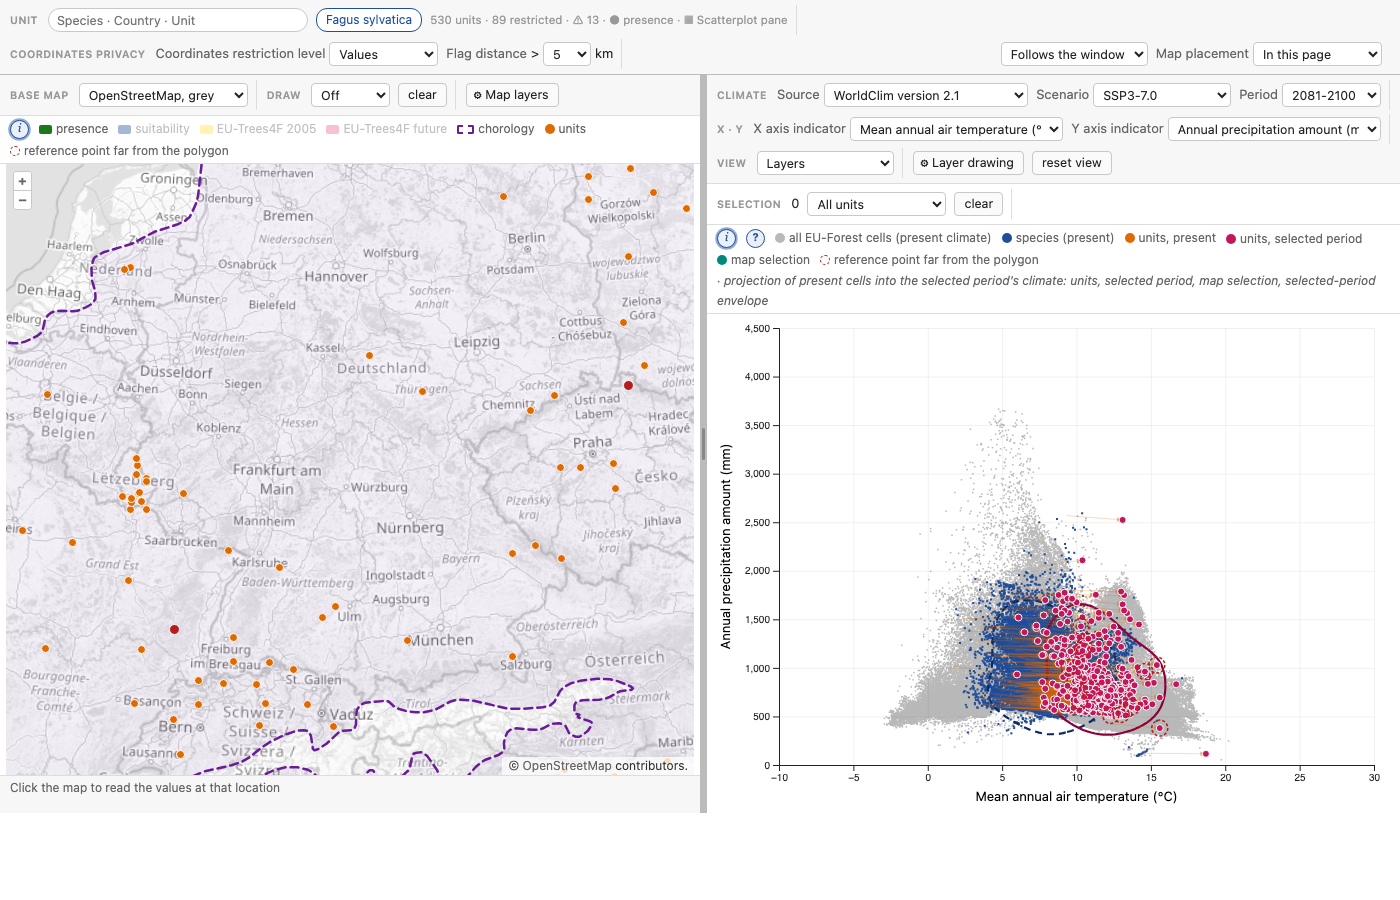
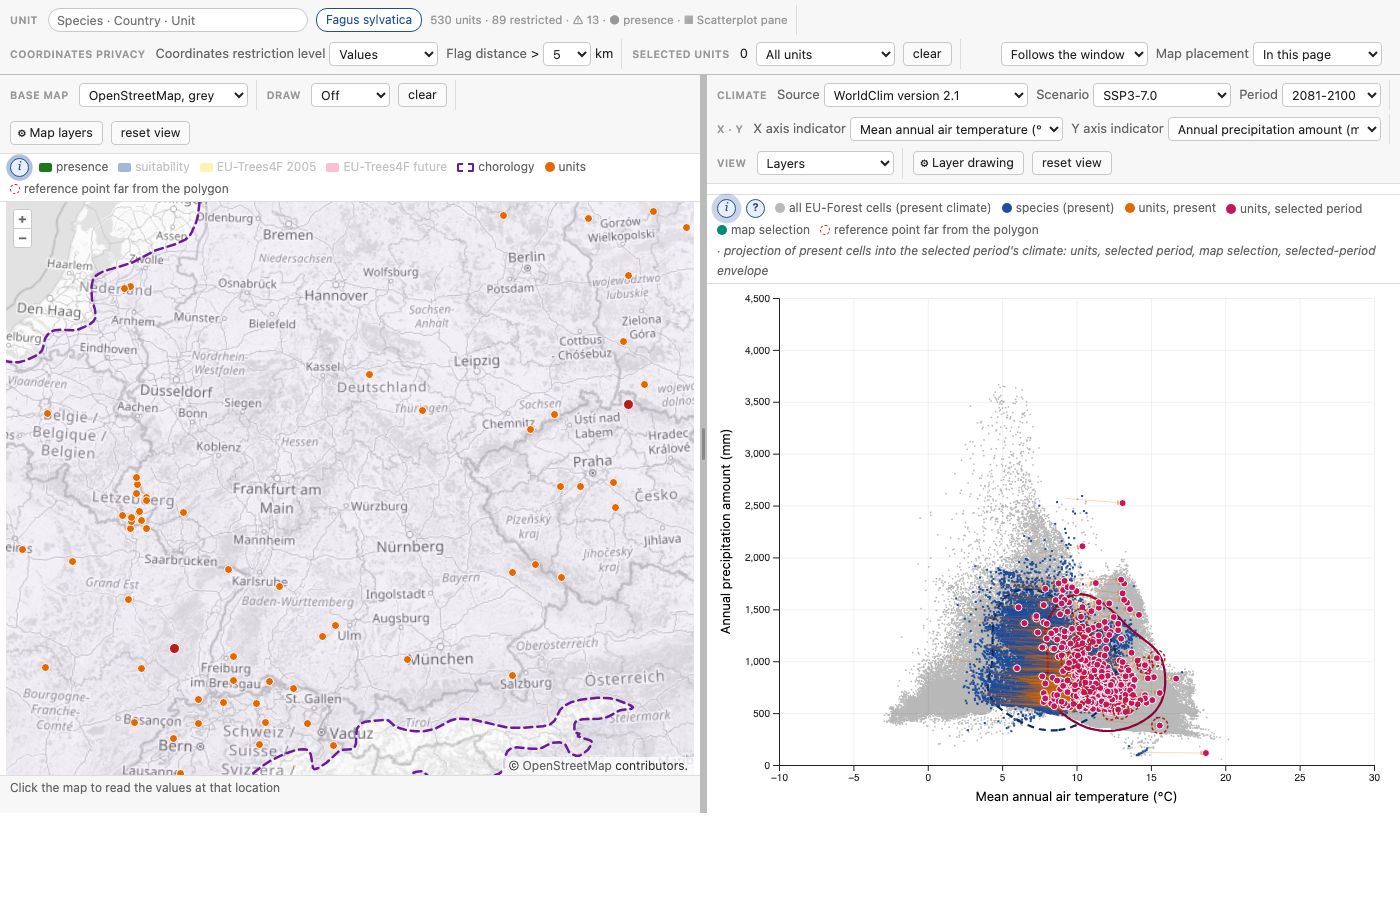
feat(examples): the Selection group is shared — count, units-shown mode and clear in the host's bar as "Selected units"; the mode (all / only the selection / hide the selection) acts on the map too
Term follow-up noted: ui_layout_scatterplot_units_mode and _selection have page-wide scope now and belong under ui_layout_units_*.

diff --git a/examples/linked.html b/examples/linked.html
@@ -36,6 +36,11 @@
     <label><span data-term="gcu_loc_coordinates-restriction_level"></span> <select data-key="gcu_loc_coordinates-restriction_level"></select></label>
     <label><span data-term="gcu_loc_climate_flag"></span> &gt; <select data-key="gcu_loc_climate_flag"><option>1</option><option>2</option><option>5</option><option>10</option><option>20</option></select> km</label>
   </span>
+  <!-- the selected units (option-click on either pane): the count, which units both panes draw, clear -->
+  <span class="group"><span class="cap" data-term="ui_layout_scatterplot_units_selection"></span><span id="selCount">0</span>
+    <select data-key="ui_layout_scatterplot_units_mode"></select>
+    <button id="selClear" data-term="ui_layout_label_clear"></button>
+  </span>
   <span class="group" id="clearGroup" style="display:none"><span class="cap" data-term="ui_layout_scatterplot_label_map-selection"></span><button id="clear" data-term="ui_layout_label_clear"></button></span>
   <span class="group right"><select data-key="ui_layout_mode"></select>
     <label><span data-term="ui_layout_map_placement"></span> <select data-key="ui_layout_map_placement"></select></label>
@@ -51,10 +56,10 @@
 <script src="service.js"></script>
 <script>
 const $ = (id) => document.getElementById(id), $K = (k) => document.querySelector(`[data-key="${k}"]`)
-const K = { species: 'species', country: 'gcu_id_country', unit: 'gcu_id_number', level: 'gcu_loc_coordinates-restriction_level', flag: 'gcu_loc_climate_flag', mode: 'ui_layout_mode', placement: 'ui_layout_map_placement', selection: 'ui_layout_scatterplot_units_selection', sel: 'ui_layout_map_selection' }
-const SHARED = [K.species, K.country, K.unit, K.level, K.flag]   // what the panes receive
+const K = { species: 'species', country: 'gcu_id_country', unit: 'gcu_id_number', level: 'gcu_loc_coordinates-restriction_level', flag: 'gcu_loc_climate_flag', mode: 'ui_layout_mode', placement: 'ui_layout_map_placement', selection: 'ui_layout_scatterplot_units_selection', unitsMode: 'ui_layout_scatterplot_units_mode', sel: 'ui_layout_map_selection' }
+const SHARED = [K.species, K.country, K.unit, K.level, K.flag, K.selection, K.unitsMode]   // what the panes receive
 const E = (root, ...lids) => lids.map((l) => `${root}_${l}`)
-const OPT = { [K.level]: E('gcu_loc_coordinates-restriction', 'public', 'value', 'manage'), [K.mode]: E('ui_layout_mode', 'auto', 'side', 'stack'), [K.placement]: E('ui_layout_map_placement', 'page', 'tab', 'window') }
+const OPT = { [K.level]: E('gcu_loc_coordinates-restriction', 'public', 'value', 'manage'), [K.mode]: E('ui_layout_mode', 'auto', 'side', 'stack'), [K.placement]: E('ui_layout_map_placement', 'page', 'tab', 'window'), [K.unitsMode]: E('ui_layout_scatterplot_units', 'all', 'only', 'hide') }
 const DIST = 'gcu_loc_climate_distance'
 const last = Dict.last
 let state = {}, cat, ix = [], popup = null
@@ -100,6 +105,7 @@ const read = (el) => el.dataset.key === K.flag ? Number(el.value) : (el.value ==
 const ON = {
   [K.flag]: () => { refill(); send() }, [K.level]: async () => { ix = await Svc.unitsIndex(state[K.level]); refill(); send() },
   [K.mode]: () => { $('panes').className = last(state[K.mode]); stackedFlag() }, [K.placement]: place,
+  [K.unitsMode]: () => send([K.unitsMode]),
 }
 const panes = $('panes'), stacked = () => panes.classList.contains('stack') || (panes.classList.contains('auto') && matchMedia('(max-aspect-ratio: 5/4)').matches)
 function stackedFlag() { panes.classList.toggle('stacked', stacked()) }
@@ -120,7 +126,7 @@ const q = new URLSearchParams(location.search)
 const paneUrl = (page, extra = '') => `${page}?embedded=1${['lang', 'dict', 'api'].filter((k) => q.get(k)).map((k) => `&${k}=${encodeURIComponent(q.get(k))}`).join('')}${extra}`
 Promise.all([Svc.catalogue(), Dict.defaults()]).then(async ([c, defaults]) => {
   cat = c
-  state = { ...defaults, [K.species]: 'Fagus sylvatica', [K.level]: 'gcu_loc_coordinates-restriction_value' }   // the scatterplot default: restricted units' values are shown
+  state = { ...defaults, [K.species]: 'Fagus sylvatica', [K.level]: 'gcu_loc_coordinates-restriction_value', [K.selection]: [] }   // the scatterplot default: restricted units' values are shown
   for (const k of Object.values(K)) if (q.has(k)) state[k] = q.get(k)
   ix = await Svc.unitsIndex(state[K.level])
   await Dict.load([...Object.values(K), ...Object.values(OPT).flat(), ...c.countries.map((x) => x[K.country]), 'ui_layout', 'ui_layout_scatterplot', 'ui_layout_scatterplot_label_map-selection', 'gcu_loc_coordinates-restriction', 'ui_layout_label_species', 'ui_layout_label_country', 'ui_layout_label_unit', 'ui_layout_label_clear', 'ui_layout_label_restricted', 'ui_layout_label_flagged', 'ui_layout_map_label_presence'])
@@ -131,6 +137,7 @@ Promise.all([Svc.catalogue(), Dict.defaults()]).then(async ([c, defaults]) => {
     if (OPT[k]) Dict.options(el, OPT[k], state[k]); else { if (state[k] != null) el.value = state[k]; Dict.hover(el) }
     el.addEventListener('change', () => { state[k] = read(el); (ON[k] ?? send)() })
   }
+  $('selClear').addEventListener('click', () => { state[K.selection] = []; $('selCount').textContent = 0; send([K.selection]) })
   refill(); stackedFlag(); matchMedia('(max-aspect-ratio: 5/4)').addEventListener('change', stackedFlag)
   // the search box: type a species, a country or a unit number; Enter takes the highlighted suggestion, Escape closes
   const q$ = $('q'); q$.placeholder = `${Dict.title('ui_layout_label_species')} · ${Dict.title('ui_layout_label_country')} · ${Dict.title('ui_layout_label_unit')}`; q$.title = Dict.def('ui_layout_label_unit')
@@ -168,7 +175,7 @@ window.addEventListener('message', (e) => {
     $('clearGroup').style.display = d[K.sel] ? '' : 'none'
   }
   // the units selected by option-click, on either pane, are drawn on both; a unit clicked on the map is chosen as in the search box
-  if (K.selection in d) (e.source === mapW() ? scatterW() : mapW()).postMessage({ type: 'state', [K.selection]: d[K.selection] }, '*')
+  if (K.selection in d) { state[K.selection] = d[K.selection] ?? []; $('selCount').textContent = state[K.selection].length; (e.source === mapW() ? scatterW() : mapW()).postMessage({ type: 'state', [K.selection]: state[K.selection] }, '*') }
   if (K.unit in d && (e.source === mapW() || e.source === scatterW()) && (d[K.unit] ?? null) !== (state[K.unit] ?? null)) { state[K.unit] = d[K.unit] ?? null; refill(); send([K.unit]) }
   if (K.species in d && e.source === mapW() && d[K.species] !== state[K.species]) { state[K.species] = d[K.species]; state[K.country] = null; state[K.unit] = null; refill(); scatterW().postMessage({ type: 'state', [K.species]: state[K.species], [K.country]: null, [K.unit]: null }, '*') }
 })

diff --git a/examples/map-openlayers.html b/examples/map-openlayers.html
@@ -93,7 +93,7 @@ const flagStyle = new ol.style.Style({ stroke: new ol.style.Stroke({ color: '#b7
 const hidden = new ol.style.Style({})
 
 // ---- the pane state, keyed by dictionary gids (ui_layout_state)
-const K = { species: 'species', country: 'gcu_id_country', unit: 'gcu_id_number', flag: 'gcu_loc_climate_flag', level: 'gcu_loc_coordinates-restriction_level', base: 'ui_layout_map_layer_base', draw: 'ui_layout_map_draw-mode', sel: 'ui_layout_map_selection', period: 'env_climate_period', scenario: 'env_climate_scenario', variant: 'ui_layout_scatterplot_view_classes_variant', selection: 'ui_layout_scatterplot_units_selection' }
+const K = { species: 'species', country: 'gcu_id_country', unit: 'gcu_id_number', flag: 'gcu_loc_climate_flag', level: 'gcu_loc_coordinates-restriction_level', base: 'ui_layout_map_layer_base', draw: 'ui_layout_map_draw-mode', sel: 'ui_layout_map_selection', period: 'env_climate_period', scenario: 'env_climate_scenario', variant: 'ui_layout_scatterplot_view_classes_variant', selection: 'ui_layout_scatterplot_units_selection', unitsMode: 'ui_layout_scatterplot_units_mode' }
 const LAYER = { rpp: 'ui_layout_map_layer_rpp', mhs: 'ui_layout_map_layer_mhs', t4cur: 'ui_layout_map_layer_t4-current', t4fut: 'ui_layout_map_layer_t4-future', choro: 'ui_layout_map_layer_chorology', units: 'ui_layout_map_layer_units' }
 const E = (root, ...lids) => lids.map((l) => `${root}_${l}`)
 const OPT = { [K.base]: E('ui_layout_map_layer_base', 'none', 'boundary', 'hillshade', 'gray', 'osm', 'topo'), [K.draw]: E('ui_layout_map_draw-mode', 'none', 'point', 'box', 'polygon'), [K.variant]: E('ui_layout_scatterplot_view_classes_variant', 'potential', 'dispersal') }
@@ -166,7 +166,8 @@ function refill() {
   for (const el of [cs, ss, us]) Dict.hover(el)
   const nf = sel.filter(flag).length; $('searchInfo').textContent = `${sel.length} ${T(LBL.unit).toLowerCase()}s · ${sel.filter((u) => u['gcu_loc_coordinates-restriction']).length} ${T(LBL.restricted)}${nf ? ` · ⚠ ${nf}` : ''} · ● ${T(LBL.presence)}`; $('searchInfo').title = `⚠ = ${T(LBL.flagged)} (> ${state[K.flag]} km)`
   const ids = new Set(sel.map((u) => u.gcu_id_number))
-  for (const f of units.getSource().getFeatures()) f.set('hidden', !ids.has(f.get('gcu_id_number')), true)   // the points outside the filter are not drawn
+  const mode = last(state[K.unitsMode] ?? '')   // all / only the selection / hide the selection, shared with the scatterplot
+  for (const f of units.getSource().getFeatures()) { const id = f.get('gcu_id_number'); f.set('hidden', !ids.has(id) || (mode === 'only' && !selected(id)) || (mode === 'hide' && selected(id)), true) }   // the points outside the filter are not drawn
   units.changed()
   run.sel = sel; updateInfo(sel)
 }
@@ -238,7 +239,7 @@ map.on('singleclick', (e) => {
   if (f && e.originalEvent.altKey) {   // toggle in the shared selection
     const id = f.get('gcu_id_number'), sel = state[K.selection] ?? []
     state[K.selection] = selected(id) ? sel.filter((x) => x !== id) : [...sel, id]
-    units.changed(); picked.changed(); post({ [K.selection]: state[K.selection] }); updateInfo(run.sel ?? []); $('info').innerHTML = `${T(LBL.selection)}: ${state[K.selection].length} · ${unitHtml(f).replace(/<br>/g, ' · ')}`
+    refill(); post({ [K.selection]: state[K.selection] }); $('info').innerHTML = `${T(LBL.selection)}: ${state[K.selection].length} · ${unitHtml(f).replace(/<br>/g, ' · ')}`
     return
   }
   if (f) {   // choose the unit: its polygon here, its reference point in the scatterplot (through the host)

diff --git a/examples/scatter-d3-canvas.html b/examples/scatter-d3-canvas.html
@@ -68,7 +68,7 @@
     <label><span data-term="gcu_loc_coordinates-restriction_level"></span> <select data-key="gcu_loc_coordinates-restriction_level"></select></label>
     <label><span data-term="gcu_loc_climate_flag"></span> &gt; <select data-key="gcu_loc_climate_flag"><option>1</option><option>2</option><option>5</option><option>10</option><option>20</option></select> km</label>
   </span>
-  <span class="group"><span class="cap" data-term="ui_layout_scatterplot_label_selection"></span>
+  <span class="group host"><span class="cap" data-term="ui_layout_scatterplot_units_selection"></span>
     <span id="selCount">0</span> <select data-key="ui_layout_scatterplot_units_mode"></select> <button id="selClear" data-term="ui_layout_label_clear"></button>
   </span>
   <span class="group" id="mapSel" style="display:none"><span class="cap" data-term="ui_layout_scatterplot_label_map-selection"></span><span id="mapSelInfo"></span> <button id="mapSelClear" data-term="ui_layout_label_clear"></button></span>
@@ -347,7 +347,7 @@ async function applyState(partial) {
   $('disabled').innerHTML = noData ? `<div><b>${sp}</b><br>${Dict.title(LBL.noData)}<br><small>${Dict.def(LBL.noData)}</small></div>` : ''
   if (!cur()) setClimate(climates.find((k) => k.src === 'worldclim' && k.present))   // an incomplete or unknown climate triple falls back
   if (K.mapSel in partial) state[K.mapSel] = partial[K.mapSel]
-  const light = Object.keys(partial).every((k) => k === 'type' || k === K.unit || k === K.selection)   // no data to reload
+  const light = Object.keys(partial).every((k) => k === 'type' || k === K.unit || k === K.selection || k === K.unitsMode)   // no data to reload
   if (!noData && !light) await refresh()
   if (K.selection in partial) $('selCount').textContent = (state[K.selection] ?? []).length
   // a unit chosen elsewhere (the map, the search box): highlighted and pulsed here, no echo back to the host

diff --git a/CLAUDE.md b/CLAUDE.md
@@ -181,7 +181,7 @@ Outcome: the plan to collect and compile the data, probably into a database — 
 data matches what is already there, otherwise a new database for this task.
 
 ### Phase 3 — Display plan
-**Status: in progress since 2026-10-31.** Plan and decisions: [`notes/2026-10-31-phase3-display-plan.md`](notes/2026-10-31-phase3-display-plan.md). Questions 3–4 answered by measurement (base layers static, the rest dynamic through our Foxx service); **the map pane is settled on OpenLayers** (`examples/map-openlayers.html`, approved 2026-10-31); **the scatterplot is D3 + Canvas** (`examples/scatter-d3-canvas.html`, chosen 2026-11-01; Plotly retired); the EU-Trees4F Figure 1 classification view and the map → scatterplot link (`examples/linked.html`, two pages talking by `postMessage`) and the unit reference-point distance flag (`sources/units/distance.js`; 46 of 3 669 units exceed 5 km) are built and reviewed (2026-11-01; joint page with shared controls and a layout following the window's shape); **now (order agreed 2026-11-02): (1) the dictionary terms for the panes' state** — census [`notes/2026-11-02-ui-terms-census.md`](notes/2026-11-02-ui-terms-census.md) decided by Milko; **done (2026-11-09): the `metadata-store` session created the 147 terms and 61 edges** from [`notes/2026-11-09-handoff-metadata-store-ui-terms.md`](notes/2026-11-09-handoff-metadata-store-ui-terms.md) (all twelve §D corrections applied; `ui_layout_state` holds the 33 defaults as constants; country key is `gcu_id_country`, not the enum root) — lookup table in [`notes/2026-11-09-metadata-store-ui-terms-created.md`](notes/2026-11-09-metadata-store-ui-terms-created.md), loaded on the laptop and the work server; **the three example pages now run on those terms** (2026-11-09, `examples/dictionary.js`: labels, options, hovers, legends, axis legends from `metadata/ui`; state keyed by gids, defaults from `ui_layout_state`, any key a URL parameter, `?lang=` ready; **the species layer is the fixed reference, units / selection / envelope move, the base moves on request** — the two addendum terms `ui_layout_scatterplot_base_position` and `ui_layout_label_source` were created by Milko the same day and are in use, no page-side fallback left); **`ScatterUnits` now carries `gcu_loc_climate_distance` on every unit and `gcu_loc_climate` on the unrestricted ones, validated, `_custom` gone (2026-11-09)**; **(2) the Foxx service is built** (2026-11-09; design [`notes/2026-11-09-foxx-service-design.md`](notes/2026-11-09-foxx-service-design.md); repository `indicator-pair-scatterplots-service`, installed at `/panes`, 16 tests pass, base 0.8 s then 16 ms cached, every other route under 150 ms); **the three pages run on the service** (same day, `examples/service.js`: every species, every unit, X / Y selectors with paired suggestions, the map's period selector, click anywhere → grid values; `PanesSuitability` loaded by `sources/export/suitability.js --write --all`, documents keyed by the dictionary terms with the digits under `_custom.cells` until a descriptor exists — design §10.2 still open); **(3) layout polish: three passes built 2026-11-10** (`examples/panes.css` + `panes.js`, functional groups that never break across rows, one group per layer, collapsible drawing settings, search box with chips, legend toggles, status and hints as a reading popover behind the "i" / "?" marks; display plan iterations 10–12), all three reviewed by Milko, the cosmetic fixes of pass 3 built (layer rows as an aligned grid, map reset view); **the inter-pane unit selections are built** (iteration 13, same day: unit hover window on the map, option-click selection shared by both panes, a unit click on either pane choosing the unit, highlighted on both panes and never a filter — the three roles of a unit, filter / chosen / selected, decided after Milko's test), awaiting his review; later an instructions page for the search box; then the Serve Plan; Examples run with `node examples/serve.mjs 8080` → http://localhost:8080/examples/ .
+**Status: in progress since 2026-10-31.** Plan and decisions: [`notes/2026-10-31-phase3-display-plan.md`](notes/2026-10-31-phase3-display-plan.md). Questions 3–4 answered by measurement (base layers static, the rest dynamic through our Foxx service); **the map pane is settled on OpenLayers** (`examples/map-openlayers.html`, approved 2026-10-31); **the scatterplot is D3 + Canvas** (`examples/scatter-d3-canvas.html`, chosen 2026-11-01; Plotly retired); the EU-Trees4F Figure 1 classification view and the map → scatterplot link (`examples/linked.html`, two pages talking by `postMessage`) and the unit reference-point distance flag (`sources/units/distance.js`; 46 of 3 669 units exceed 5 km) are built and reviewed (2026-11-01; joint page with shared controls and a layout following the window's shape); **now (order agreed 2026-11-02): (1) the dictionary terms for the panes' state** — census [`notes/2026-11-02-ui-terms-census.md`](notes/2026-11-02-ui-terms-census.md) decided by Milko; **done (2026-11-09): the `metadata-store` session created the 147 terms and 61 edges** from [`notes/2026-11-09-handoff-metadata-store-ui-terms.md`](notes/2026-11-09-handoff-metadata-store-ui-terms.md) (all twelve §D corrections applied; `ui_layout_state` holds the 33 defaults as constants; country key is `gcu_id_country`, not the enum root) — lookup table in [`notes/2026-11-09-metadata-store-ui-terms-created.md`](notes/2026-11-09-metadata-store-ui-terms-created.md), loaded on the laptop and the work server; **the three example pages now run on those terms** (2026-11-09, `examples/dictionary.js`: labels, options, hovers, legends, axis legends from `metadata/ui`; state keyed by gids, defaults from `ui_layout_state`, any key a URL parameter, `?lang=` ready; **the species layer is the fixed reference, units / selection / envelope move, the base moves on request** — the two addendum terms `ui_layout_scatterplot_base_position` and `ui_layout_label_source` were created by Milko the same day and are in use, no page-side fallback left); **`ScatterUnits` now carries `gcu_loc_climate_distance` on every unit and `gcu_loc_climate` on the unrestricted ones, validated, `_custom` gone (2026-11-09)**; **(2) the Foxx service is built** (2026-11-09; design [`notes/2026-11-09-foxx-service-design.md`](notes/2026-11-09-foxx-service-design.md); repository `indicator-pair-scatterplots-service`, installed at `/panes`, 16 tests pass, base 0.8 s then 16 ms cached, every other route under 150 ms); **the three pages run on the service** (same day, `examples/service.js`: every species, every unit, X / Y selectors with paired suggestions, the map's period selector, click anywhere → grid values; `PanesSuitability` loaded by `sources/export/suitability.js --write --all`, documents keyed by the dictionary terms with the digits under `_custom.cells` until a descriptor exists — design §10.2 still open); **(3) layout polish: three passes built 2026-11-10** (`examples/panes.css` + `panes.js`, functional groups that never break across rows, one group per layer, collapsible drawing settings, search box with chips, legend toggles, status and hints as a reading popover behind the "i" / "?" marks; display plan iterations 10–12), all three reviewed by Milko, the cosmetic fixes of pass 3 built (layer rows as an aligned grid, map reset view); **the inter-pane unit selections are built** (iteration 13, same day: unit hover window on the map, option-click selection shared by both panes, a unit click on either pane choosing the unit, highlighted on both panes and never a filter — the three roles of a unit, filter / chosen / selected, decided after Milko's test; the Selection group shared in the host's bar and its mode acting on both panes — term follow-up: `ui_layout_scatterplot_units_mode` / `_selection` to move under `ui_layout_units_*`), awaiting his review; later an instructions page for the search box; then the Serve Plan; Examples run with `node examples/serve.mjs 8080` → http://localhost:8080/examples/ .
 
 1. Users must be able to navigate the maps.
 2. Users must be able to zoom on areas of the scatterplot.

diff --git a/notes/2026-10-31-phase3-display-plan.md b/notes/2026-10-31-phase3-display-plan.md
@@ -299,6 +299,14 @@ the black ring on both; the scatterplot's Selection mode (all / selected only / 
 "clear" act on it. A unit-only or selection-only message is a light update on the scatterplot (no
 reload). Noted: on macOS an option-click into the browser hides the application one comes from (Warp,
 here) — a system behaviour, not the page's.
+**The Selection group is shared (Milko, same day):** the count, the "Units shown" mode (all / only the
+selection / hide the selection) and "clear" moved to the host's bar under the caption "Selected units"
+(the title of `ui_layout_scatterplot_units_selection`, so the label names the units); the mode now acts
+on both panes — the map hides the points the mode excludes — and the set is kept by the host, so a
+reopened map pane gets it. The scatterplot keeps its own group for the stand-alone page only.
+**Term follow-up for the next metadata-store batch:** `ui_layout_scatterplot_units_mode` and
+`ui_layout_scatterplot_units_selection` now have page-wide scope and belong under `ui_layout_units_*`
+(the pages read the gids from one table each; two lines to change).
 Not yet: the class of each unit's own cell (a service-side raster sample, so that restricted units get
 it too). **Built 2026-10-31**, to be opened by Milko: start the
 server with `node examples/serve.mjs 8080` and open http://localhost:8080/examples/ . Libraries come
@@ -324,6 +332,7 @@ geometries for the map come from `UnitPolygons` (all 441 unrestricted beech unit
 | 2026-11-09 | **Unit facts under their terms:** `sources/units/distance.js --write` stores `gcu_loc_climate_distance` on all 3 669 units and `gcu_loc_climate` (the reference point) on the 3 329 unrestricted ones, every value validated against the dictionary first (6 998 values, 0 errors); the pre-term `_custom` block is removed; the loader writes the same on a reload; the exports and the pages read the gid; the `SCATTER_UNITS` Dataset record lists both descriptors. 46 units exceed 5 km, unchanged. |
 | 2026-11-09 | **The species layer is the reference and never moves** (Milko, agreed): in a future period the species cloud stays at the present climate (the realised niche, as the Atlas diagram and EU-Trees4F Figure 1 treat it); the units, the map-selected cells and the solid envelope move to the selected period; the base layer stays by default and moves **on request** (`ui_layout_scatterplot_base_position`, term requested in the handoff addendum): Europe's future climate space against the present niche shows whether the species' climate will still exist. The classes view keeps its own rule. |
 | 2026-11-10 | **Review of passes 1–2 (Milko):** the search box stays (it needs an instructions page with examples); the legend toggles are good; the "i" / "?" marks are elegant provided they are visible without being loud and their text invites reading; "Pane layout" is implied and goes; the ⚙ button needs a label; the map selection must be the top layer; controls must be grouped functionally whatever the window's width. Later: unit hover and option-click selection on the map, a unit's area click selecting its reference point. Built as iteration 12. |
+| 2026-11-10 | **The Selection group is shared** (Milko): count, units-shown mode and clear in the host's bar, labelled "Selected units"; the mode acts on both panes. Term follow-up: the two `ui_layout_scatterplot_units_*` state terms to move under `ui_layout_units_*` in the next batch. |
 | 2026-11-10 | **The three roles of a unit (decided with Milko's test of iteration 13):** species and country filter; the chosen unit (`gcu_id_number`) highlights on both panes and never filters, cleared by chip, Escape or a click on empty plot space; the selection (option-click) is the set the Selection mode and "clear" act on, drawn on both panes. Built the same day. |
 | 2026-11-10 | **Inter-pane unit selections built** (iteration 13): unit hover window on the map, option-click selection shared and drawn on both panes, a unit click on the map chooses the unit and pulses its reference point in the scatterplot. Pending Milko's review. |
 | 2026-11-10 | **Review of the third pass (Milko):** the marks and their popover are right; cosmetic fixes requested and built — the layer rows aligned as a grid on both panes, a reset view button on the map, one line per layer in the map's "i". Next: the inter-pane unit selections (unit hover and option-click on the map, a unit's area click selecting its reference point). |
